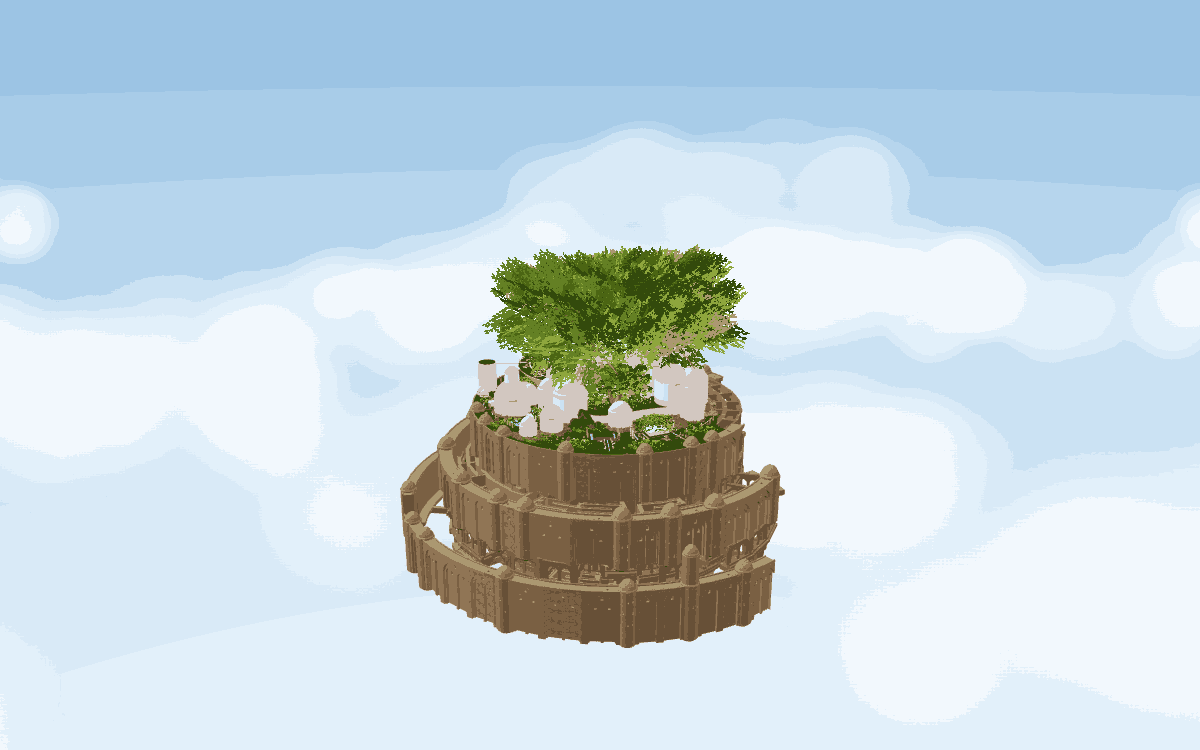
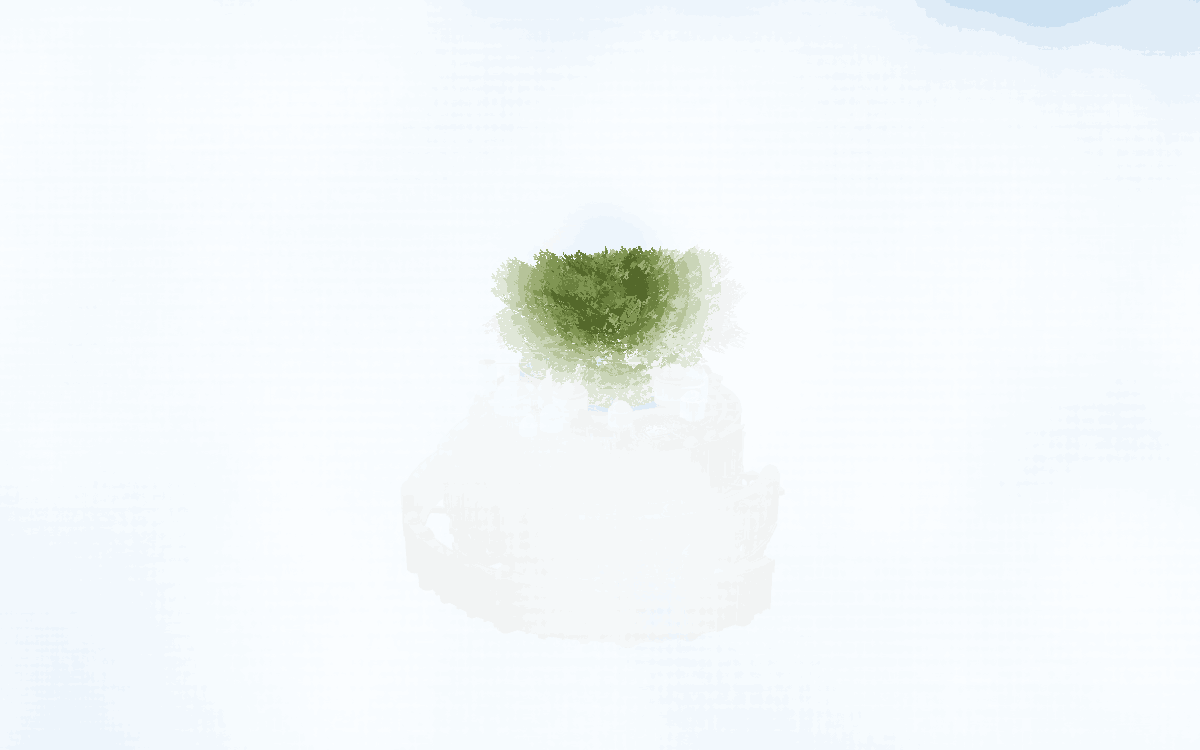
lab: update laputa-skyward

diff --git a/lab/sketches/laputa-skyward.html b/lab/sketches/laputa-skyward.html
@@ -25,11 +25,11 @@ const canvas=renderer.domElement;canvas.tabIndex=0;canvas.setAttribute('aria-lab
 const scene=new THREE.Scene();scene.background=new THREE.Color('#ffffff');const camera=new THREE.PerspectiveCamera(40,1,.05,1000);const controls=new THREE.OrbitControls(camera,canvas);controls.enableDamping=true;controls.dampingFactor=.055;controls.enablePan=true;controls.panSpeed=.35;controls.screenSpacePanning=true;controls.mouseButtons.MIDDLE=THREE.MOUSE.PAN;controls.mouseButtons.RIGHT=THREE.MOUSE.ROTATE;controls.rotateSpeed=.24;controls.zoomSpeed=.45;controls.minPolarAngle=.12;controls.maxPolarAngle=Math.PI*.85;
 scene.add(new THREE.HemisphereLight(0xe8f2ff,0x73715f,.85));const key=new THREE.DirectionalLight(0xfff1d9,1.15);key.position.set(-30,55,35);scene.add(key);const fill=new THREE.DirectionalLight(0xdbe8ff,.35);fill.position.set(35,10,-30);scene.add(fill);
 let model=null,radius=20,frame=0,loaded=false,contextLost=false;
-const reduced=matchMedia('(prefers-reduced-motion: reduce)'),skip=document.querySelector('#skip'),pause=document.querySelector('#pause');let intro=false,introTime=0,elapsed=0,lastTime=0,paused=false;const clouds=[];const homeTarget=new THREE.Vector3(),homePosition=new THREE.Vector3();
+const reduced=matchMedia('(prefers-reduced-motion: reduce)'),skip=document.querySelector('#skip'),pause=document.querySelector('#pause');let intro=false,introTime=0,elapsed=0,lastTime=0,paused=false;const clouds=[],veils=[];const veilViewport=new THREE.Vector2(),veilOpening=new THREE.Vector2(),veilAnchor=new THREE.Vector3();const homeTarget=new THREE.Vector3(),homePosition=new THREE.Vector3();
 const stats=window.laputaStats={ready:false,frames:0,calls:0,triangles:0,mobile:!!mobileMode};
 function draw(time){frame=0;if(document.hidden||contextLost)return;const dt=lastTime?Math.min((time-lastTime)/1000,.05):0;lastTime=time;
 if(loaded&&!reduced.matches&&!paused){elapsed+=dt;for(const cloud of clouds){cloud.position.x=cloud.userData.x+Math.sin(elapsed*.018+cloud.userData.phase)*radius*.8;cloud.position.z=cloud.userData.z+Math.cos(elapsed*.012+cloud.userData.phase)*radius*.3;}if(intro){introTime+=dt;const t=Math.min(1,introTime/8),e=t*t*t*(t*(t*6-15)+10),angle=Math.PI/4+(1-e)*Math.PI*1.45,distance=homePosition.distanceTo(homeTarget)*(1+2.5*(1-e)),elevation=Math.atan(.48/Math.sqrt(2))+.22*(1-e);camera.position.copy(homeTarget).add(new THREE.Vector3(Math.sin(angle)*Math.cos(elevation),Math.sin(elevation),Math.cos(angle)*Math.cos(elevation)).multiplyScalar(distance));camera.lookAt(homeTarget);if(t===1)finishIntro();}}
-if(loaded&&!intro)controls.update();renderer.render(scene,camera);stats.target=controls.target.toArray();stats.frames++;stats.calls=renderer.info.render.calls;stats.triangles=renderer.info.render.triangles;stats.intro=intro;stats.elapsed=elapsed;stats.camera=camera.position.toArray();if(loaded&&!reduced.matches&&!paused)invalidate();else lastTime=0;}
+if(loaded&&!intro)controls.update();updateVeil();renderer.render(scene,camera);stats.target=controls.target.toArray();stats.frames++;stats.calls=renderer.info.render.calls;stats.triangles=renderer.info.render.triangles;stats.intro=intro;stats.elapsed=elapsed;stats.camera=camera.position.toArray();if(loaded&&!reduced.matches&&!paused)invalidate();else lastTime=0;}
 function finishIntro(){intro=false;skip.hidden=true;controls.enabled=true;home();}
 function syncMotion(){lastTime=0;controls.enableDamping=!reduced.matches;if(reduced.matches){if(intro)finishIntro();pause.disabled=true;pause.textContent='STILL SKY';}else{pause.disabled=false;pause.textContent=paused?'RESUME SKY':'PAUSE SKY';}invalidate();}
 document.querySelector('#home').addEventListener('click',()=>{if(loaded)finishIntro();});skip.addEventListener('click',finishIntro);pause.addEventListener('click',()=>{paused=!paused;pause.setAttribute('aria-pressed',String(paused));syncMotion();});reduced.addEventListener('change',syncMotion);
@@ -38,10 +38,30 @@ const sky=new THREE.Mesh(new THREE.SphereGeometry(radius*23,32,16),new THREE.Sha
 const textureCanvas=document.createElement('canvas');textureCanvas.width=512;textureCanvas.height=256;const c=textureCanvas.getContext('2d');let seed=23;function random(){seed=(seed*1664525+1013904223)>>>0;return seed/4294967296;}
 for(let i=0;i<50;i++){const x=90+random()*330,y=112+(random()-.5)*75,r=24+random()*47,g=c.createRadialGradient(x,y,0,x,y,r);g.addColorStop(0,'rgba(255,255,255,.55)');g.addColorStop(.55,'rgba(250,253,255,.36)');g.addColorStop(1,'rgba(237,245,255,0)');c.fillStyle=g;c.fillRect(x-r,y-r,r*2,r*2);}const tex=new THREE.CanvasTexture(textureCanvas);tex.encoding=THREE.sRGBEncoding;
 for(let i=0;i<(mobileMode?26:52);i++){const angle=random()*Math.PI*2,ring=radius*(2.6+random()*6),cloud=new THREE.Sprite(new THREE.SpriteMaterial({map:tex,toneMapped:false,transparent:true,opacity:.55+random()*.35,depthWrite:false,fog:false}));cloud.position.set(homeTarget.x+Math.sin(angle)*ring,homeTarget.y-radius*(.65+random()*1.5),homeTarget.z+Math.cos(angle)*ring);const scale=radius*(2.2+random()*3);cloud.scale.set(scale,scale*.42,1);cloud.userData={x:cloud.position.x,z:cloud.position.z,phase:random()*6};clouds.push(cloud);scene.add(cloud);}
+// Moving banks wrap the castle itself. A shared translucent opening preserves a glimpse.
+for(let i=0;i<(mobileMode?16:24);i++){
+const angle=i*2.39996323,ring=radius*(.85+random()*.55),size=radius*(1.7+random()*.9);
+const material=new THREE.SpriteMaterial({map:tex,toneMapped:false,transparent:true,opacity:.65,depthWrite:false,fog:false});
+material.onBeforeCompile=shader=>{shader.uniforms.veilViewport={value:veilViewport};shader.uniforms.veilOpening={value:veilOpening};shader.fragmentShader='uniform vec2 veilViewport;uniform vec2 veilOpening;\n'+shader.fragmentShader;shader.fragmentShader=shader.fragmentShader.replace('#include <alphatest_fragment>',`float openingDistance=length((gl_FragCoord.xy-veilOpening)/min(veilViewport.x,veilViewport.y));
+diffuseColor.a*=mix(0.06,1.0,smoothstep(0.045,0.22,openingDistance));
+#include <alphatest_fragment>`);};material.customProgramCacheKey=()=> 'castle-cloud-opening-v1';
+const cloud=new THREE.Sprite(material);cloud.scale.set(size,size*(.57+random()*.2),1);cloud.userData={angle,ring,y:(random()-.5)*radius*1.55,phase:random()*Math.PI*2};veils.push(cloud);scene.add(cloud);
+}
 // Distant gliding birds, kept outside the castle silhouette.
 const birdPositions=[];for(let i=0;i<14;i++){const x=(random()-.5)*radius*8,y=homeTarget.y+radius*(.5+random()),z=-radius*(2+random()*2),a=radius*.04;birdPositions.push(x-a,y,z,x,y-a*.3,z,x,y-a*.3,z,x+a,y,z);}const birds=new THREE.LineSegments(new THREE.BufferGeometry().setAttribute('position',new THREE.Float32BufferAttribute(birdPositions,3)),new THREE.LineBasicMaterial({color:0x647e8e,transparent:true,opacity:.45}));scene.add(birds);
 }
 
+function updateVeil(){
+if(!veils.length)return;
+renderer.getDrawingBufferSize(veilViewport);
+// Keep a small window on the model even when several cloud banks overlap.
+veilAnchor.copy(homeTarget);veilAnchor.y+=radius*(.12+Math.sin(elapsed*.045)*.16);veilAnchor.project(camera);
+veilOpening.set((veilAnchor.x*.5+.5)*veilViewport.x,(veilAnchor.y*.5+.5)*veilViewport.y);
+for(const cloud of veils){const u=cloud.userData,a=u.angle+elapsed*.028;cloud.position.set(homeTarget.x+Math.sin(a)*u.ring,homeTarget.y+u.y+Math.sin(elapsed*.075+u.phase)*radius*.18,homeTarget.z+Math.cos(a)*u.ring);
+const proximity=THREE.MathUtils.smoothstep(cloud.position.distanceTo(camera.position),radius*.18,radius*.85);
+cloud.material.opacity=(.58+.13*Math.sin(elapsed*.09+u.phase))*proximity;
+}stats.veilClouds=veils.length;
+}
 function invalidate(){if(!frame&&!document.hidden&&!contextLost)frame=requestAnimationFrame(draw);}
 controls.addEventListener('change',invalidate);
 function resize(){renderer.setPixelRatio(Math.min(devicePixelRatio||1,pixelLimit));renderer.setSize(innerWidth,innerHeight);camera.aspect=innerWidth/Math.max(1,innerHeight);camera.updateProjectionMatrix();if(loaded){setHome();}invalidate();}

diff --git a/lab/sketches/making/laputa-skyward.md b/lab/sketches/making/laputa-skyward.md
@@ -122,3 +122,13 @@
 - 외벽 계열은 색상 계수 [0.65, 0.69, 0.80]으로 명도와 황색 기운을 낮췄습니다. 내부 아치·연결 기둥의 회갈색은 유지합니다.
 - 데스크톱과 모바일 에뮬레이션에서 약 60fps, 콘솔 오류 0개를 확인했습니다. 모바일 DPR 1.25와 기존 경량화는 유지했습니다. 실제 모바일 기기 성능과 Blender 원본 조명 일치는 미검증입니다.
 - 이 색상 보정은 웹 셰이더를 포함하므로 GLB만 다른 뷰어에서 열면 상단 팔레트가 동일하지 않을 수 있습니다.
+
+
+## 구름 속 탐색 · 2026-09-23
+
+> 자 이제 딱 좋다. 이제는 해야할게, 라퓨타가 너무 잘 보인다는 것이다. 이게 구름에 숨겨져있다는 컨셉이 있었으니 지금 이 모델링이 구름에 숨겨져서 잘 안보이게 해줘. 그 상태에서 탐색할 수 있게. 대신 구름은 실제로도 움직이니까 카메라 시점 기준으로 보였다 안보였다(안보였다에는 아예 안보이는 건 없음, 안보여도 최소한 조금은 보여야함, 아니면 적어도 한 부분은 보이던가)하면서 탐색할 수 있게 수정해보자.
+
+- 성 주변 높이에 움직이는 구름층을 추가했습니다. 데스크톱 24개, 모바일 16개이며 기존 구름 텍스처를 공유합니다. 구름은 성 주변을 회전하며 높이와 불투명도가 천천히 변합니다.
+- 카메라에서 본 성 중심 부근에 부드러운 투명 영역을 공유해 구름이 겹쳐도 일부가 드러나도록 했습니다. 가까운 구름은 옅어져 확대 탐색을 방해하지 않습니다. 화면 밖으로 성을 이동시킨 경우까지 가시성을 보장하지는 않습니다.
+- 기존 모델의 색상, 도입 카메라, 회전·확대·중심 이동 조작을 유지했습니다. PAUSE SKY와 동작 줄이기 설정에 새 구름도 따릅니다.
+- 헤드리스 Chrome 데스크톱 및 모바일 에뮬레이션 약 60fps, 콘솔 오류 0개를 확인했습니다. 실제 모바일 기기 성능은 미검증입니다. 구름은 실제 체적 시뮬레이션이 아닌 투명 스프라이트입니다.
